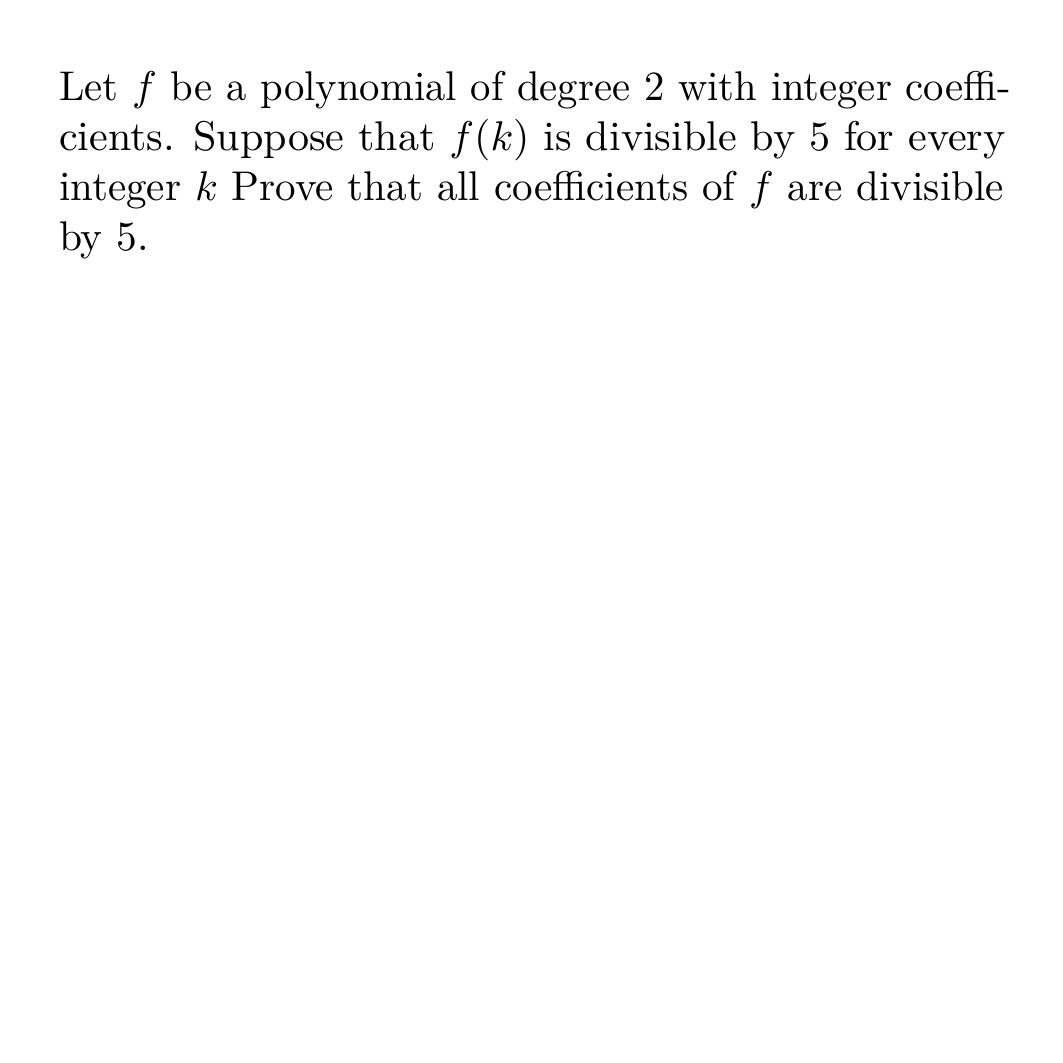
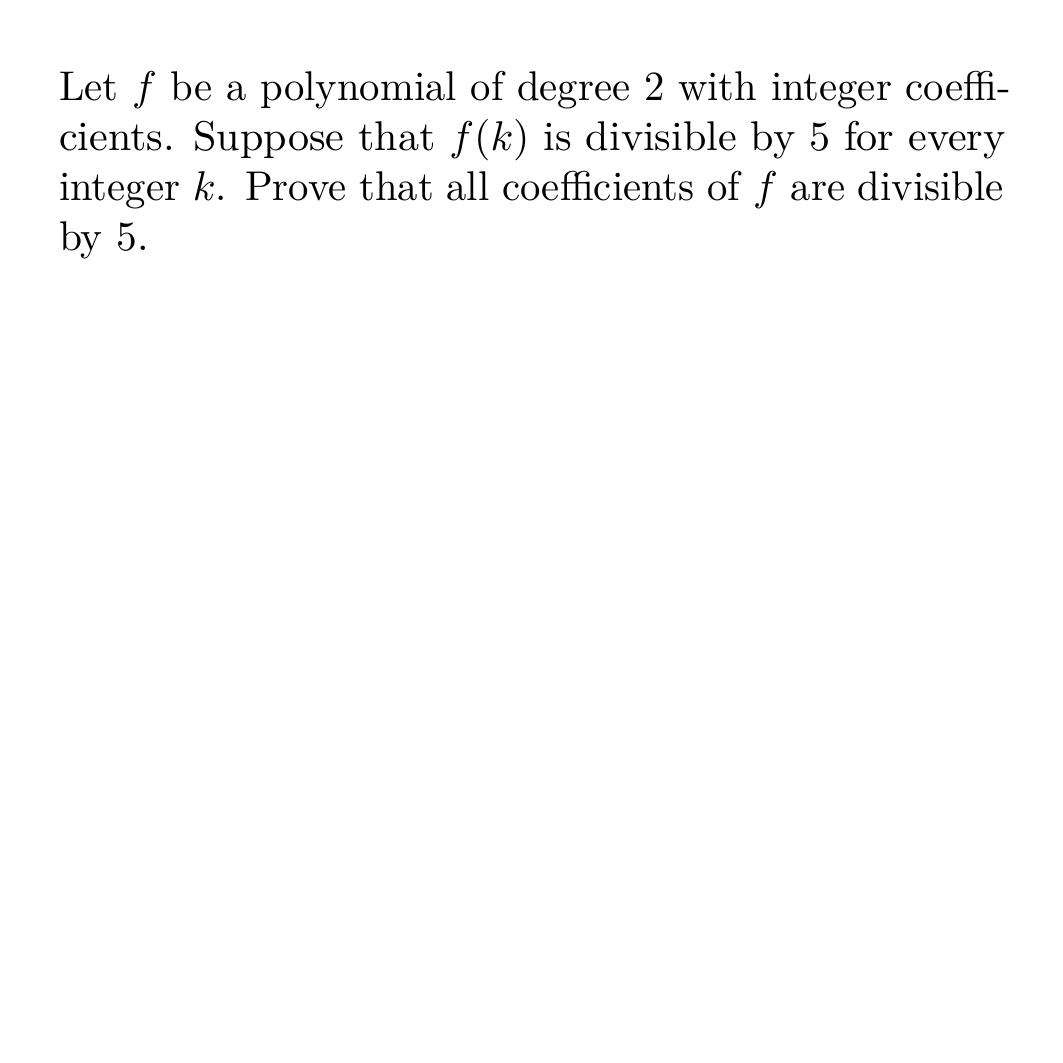
Fehler behoben

Changed region(s): [[0.1863, 0.1552, 0.9003, 0.1863], [0.0931, 0.1552, 0.1242, 0.1863]]

diff --git a/LaTeX/2007/1/1.tex b/LaTeX/2007/1/1.tex
@@ -23,5 +23,5 @@
 %Bei a), b), ... bitte dieses benutzen
 %\begin{enumerate}[label=\alph*)]
 %\end{enumerate}
-Let $f$ be a polynomial of degree $2$ with integer coefficients. Suppose that $f(k)$ is divisible by $5$ for every integer $k$ Prove that all coefficients of $f$ are divisible by $5$.
+Let $f$ be a polynomial of degree $2$ with integer coefficients. Suppose that $f(k)$ is divisible by $5$ for every integer $k$. Prove that all coefficients of $f$ are divisible by $5$.
 \end{document}
